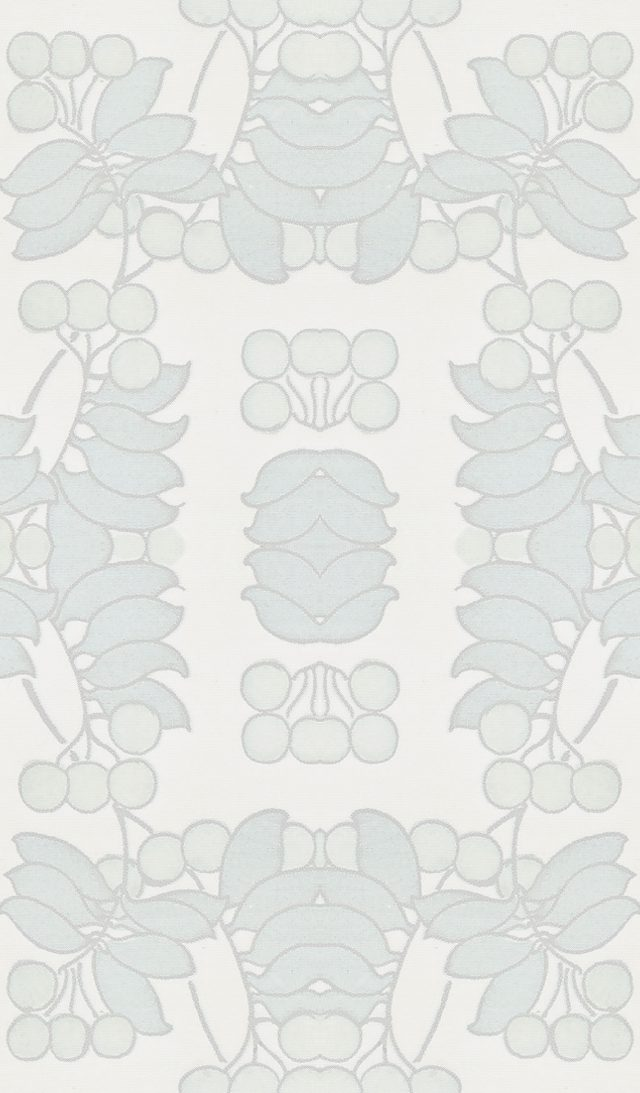
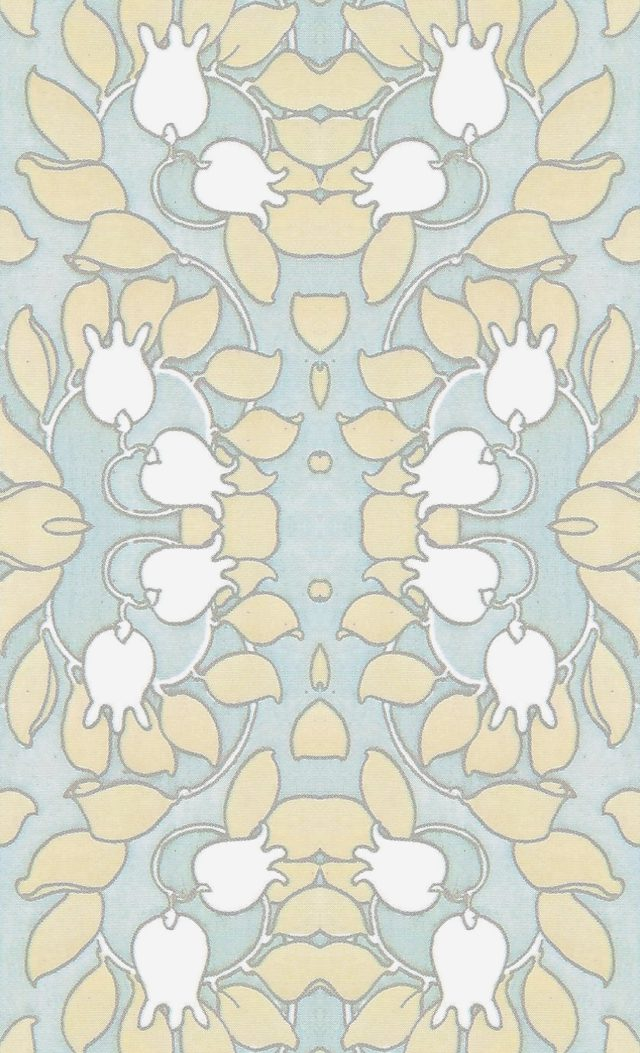
Switch background tile to the lily-of-the-valley panel with more colour

diff --git a/tools/make_bg_tile.py b/tools/make_bg_tile.py
@@ -16,13 +16,13 @@ SRC = ROOT / "img" / "background.png"
 OUT = ROOT / "img" / "bg-tile.jpg"
 
 # Crop box (left, top, right, bottom) in source-pixel coordinates, taken from the
-# *unrotated* scan: the green-berries panel in the lower-left of the plate.
-CROP = (262, 2074, 656, 2747)
+# *unrotated* scan: the gold-leaf and lily-of-the-valley bells panel, lower-left of the plate.
+CROP = (709, 2065, 1129, 2756)
 
 TILE_WIDTH = 640      # final tile width in px (height follows the aspect ratio)
-SATURATION = 0.6     # 1.0 = original colour, 0 = greyscale
-CONTRAST = 0.55       # 1.0 = original contrast
-LIGHTEN = 0.68        # fraction blended toward white (0 = none, 1 = all white)
+SATURATION = 0.95    # 1.0 = original colour, 0 = greyscale
+CONTRAST = 0.75       # 1.0 = original contrast
+LIGHTEN = 0.5        # fraction blended toward white (0 = none, 1 = all white)
 JPEG_QUALITY = 82
 
 
